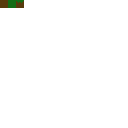
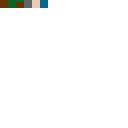
Add more blocks

Changed region(s): [[0.1875, 0.0, 0.375, 0.0625]]

diff --git a/Voxel-Engine/DefaultTerrainGenerator.cpp b/Voxel-Engine/DefaultTerrainGenerator.cpp
@@ -20,10 +20,21 @@ std::unique_ptr<Chunk> DefaultTerrainGenerator::generateChunk(World* world, Chun
 
 			double e = perlin.octaveNoise0_1(perlinX / freq, perlinZ / freq, numOctaves);
 			int elevation = abs((int)round(pow(e, exponent) * CHUNK_HEIGHT));
-			for(int y = 0; y < elevation; y++) {
-				blocks.emplace_back(BlockTypes::Dirt, glm::vec3(worldX, y, worldZ));
+
+			if(elevation > STONE_Y) {
+				for(int y = 0; y <= STONE_Y; y++) {
+					blocks.emplace_back(BlockTypes::Stone, glm::vec3(worldX, y, worldZ));
+				}
+				for(int y = STONE_Y + 1; y < elevation; y++) {
+					blocks.emplace_back(BlockTypes::Dirt, glm::vec3(worldX, y, worldZ));
+				}
+				blocks.emplace_back(BlockTypes::Grass, glm::vec3(worldX, elevation, worldZ));
+			} else {
+				for(int y = 0; y <= elevation; y++) {
+					blocks.emplace_back(BlockTypes::Stone, glm::vec3(worldX, y, worldZ));
+				}
 			}
-			blocks.emplace_back(BlockTypes::Grass, glm::vec3(worldX, elevation, worldZ));
+	
 			for(int y = elevation + 1; y < CHUNK_HEIGHT; y++) {
 				blocks.emplace_back(BlockTypes::Air, glm::vec3(worldX, y, worldZ));
 			}

diff --git a/Voxel-Engine/FlatTerrainGenerator.cpp b/Voxel-Engine/FlatTerrainGenerator.cpp
@@ -10,7 +10,9 @@ std::unique_ptr<Chunk> FlatTerrainGenerator::generateChunk(World* world, Chunk::
 		int worldZ = world->getWorldCoord(key.z, z);
 		for(int x = 0; x < CHUNK_LEN; x++) {
 			int worldX = world->getWorldCoord(key.x, x);
-			for(int y = 0; y < GRASS_Y; y++) blocks.emplace_back(BlockTypes::Dirt, glm::vec3(worldX, y, worldZ));
+			for(int y = 0; y < STONE_Y; y++) blocks.emplace_back(BlockTypes::Stone, glm::vec3(worldX, y, worldZ));
+			for(int y = STONE_Y; y < GRASS_Y; y++)
+				blocks.emplace_back(BlockTypes::Dirt, glm::vec3(worldX, y, worldZ));
 			blocks.emplace_back(BlockTypes::Grass, glm::vec3(worldX, GRASS_Y, worldZ));
 			for(int y = GRASS_Y + 1; y < CHUNK_HEIGHT; y++)
 				blocks.emplace_back(BlockTypes::Air, glm::vec3(worldX, y, worldZ));

diff --git a/Voxel-Engine/BlockTypes.h b/Voxel-Engine/BlockTypes.h
@@ -34,4 +34,32 @@ namespace BlockTypes {
 		{2, 2, 2, 2, 1, 0},
 		false,
 	};
+
+	const BlockType Stone = {
+		"Stone",
+		3,
+		{3, 3, 3, 3, 3, 3},
+		false,
+	};
+
+	const BlockType Sand = {
+		"Sand",
+		4,
+		{4, 4, 4, 4, 4, 4},
+		false,
+	};
+
+	const BlockType Water = {
+		"Water",
+		5,
+		{5, 5, 5, 5, 5, 5},
+		true,
+	};
+
+	const BlockType Snow = {
+		"Snow",
+		6,
+		{6, 6, 6, 6, 6, 6},
+		false,
+	};
 }

diff --git a/Voxel-Engine/FlatTerrainGenerator.h b/Voxel-Engine/FlatTerrainGenerator.h
@@ -4,7 +4,8 @@
 
 class FlatTerrainGenerator : public TerrainGenerator {
 private:
-	const int GRASS_Y = 3;
+	const int GRASS_Y = 5;
+	const int STONE_Y = 3;
 public:
 	std::unique_ptr<Chunk> generateChunk(World* world, Chunk::Key key) override;
 };

diff --git a/Voxel-Engine/DefaultTerrainGenerator.h b/Voxel-Engine/DefaultTerrainGenerator.h
@@ -8,6 +8,7 @@ class DefaultTerrainGenerator : public TerrainGenerator {
 private:
 	siv::PerlinNoise perlin;
 
+	const int STONE_Y = 20;
 	double freq = 5;
 	int32_t numOctaves = 5;
 	double exponent = 0.75;
